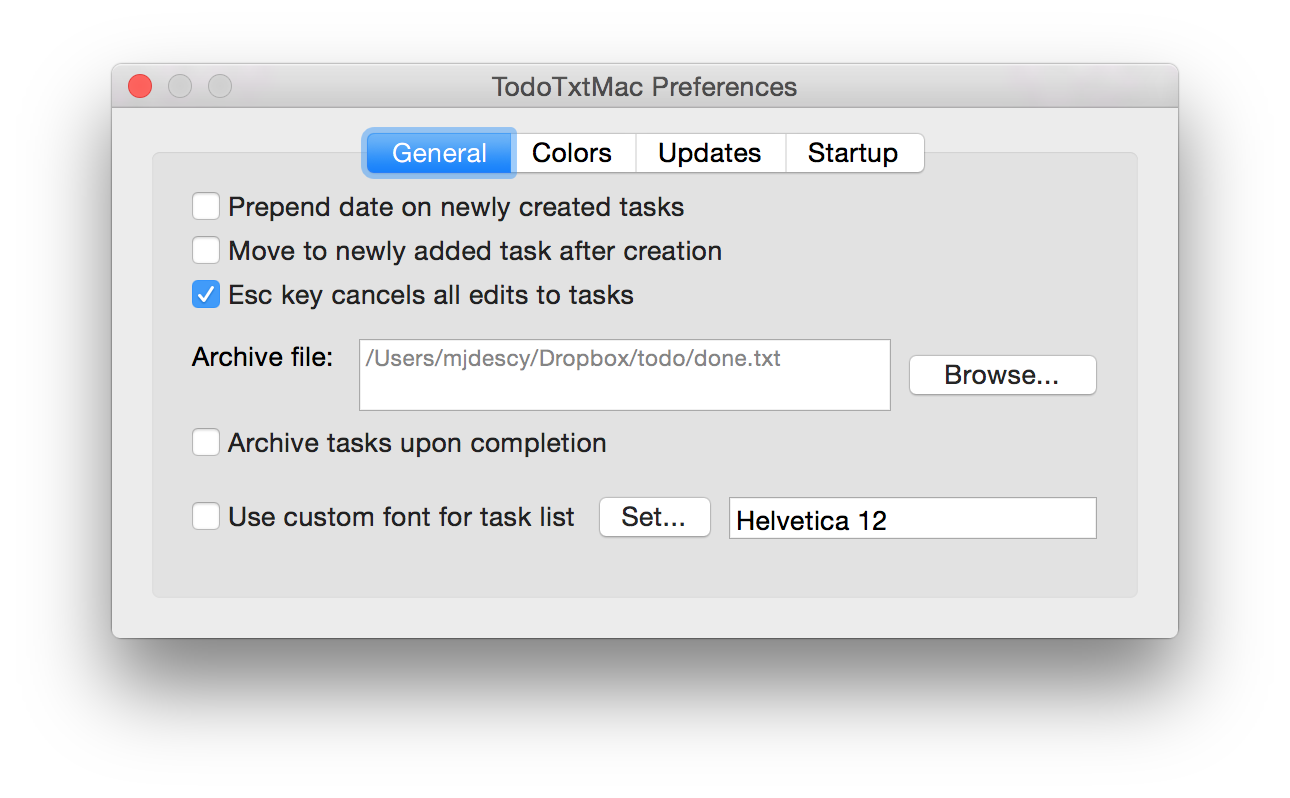
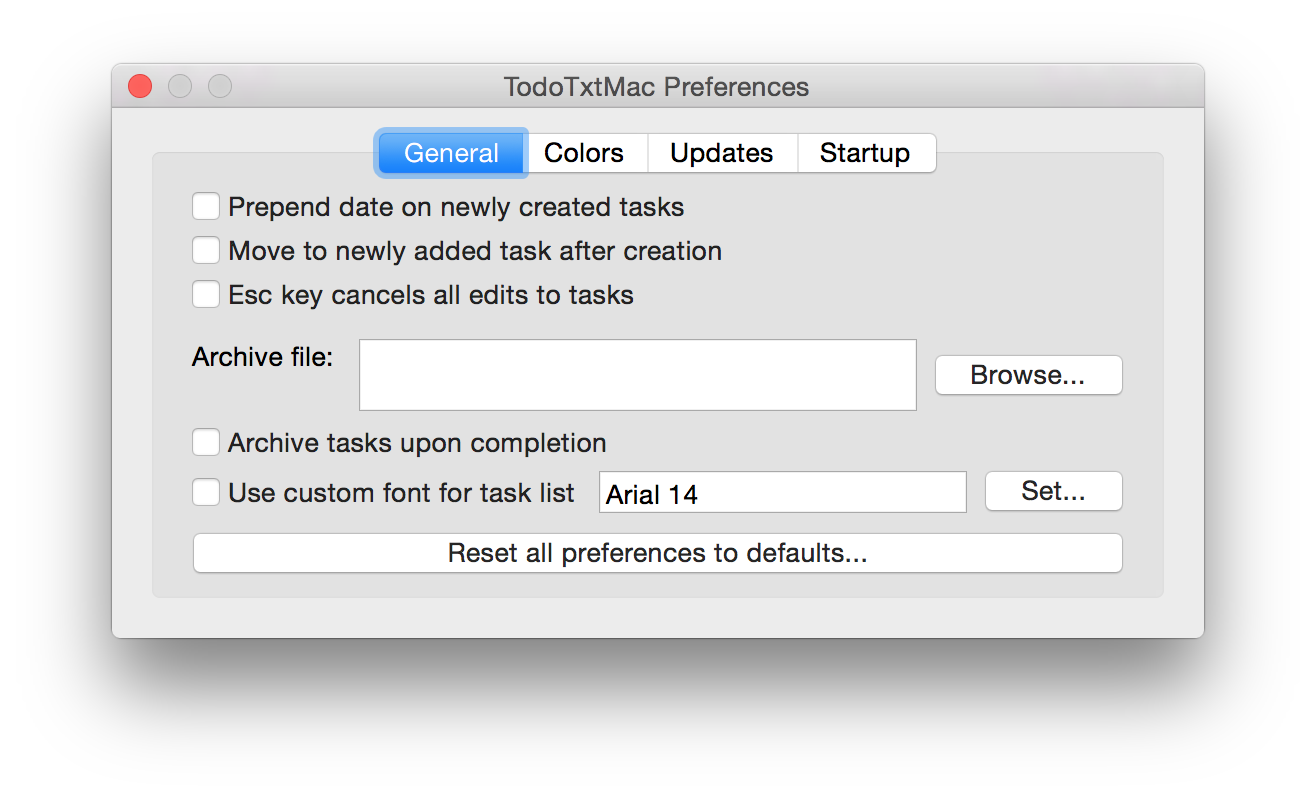
Version 1.3.0 release.

diff --git a/index.html b/index.html
@@ -129,17 +129,18 @@ TodoTxtMac is a minimalist, keyboard-driven to-do manager for Mac OS X that conf
 <a name="working-with-tasks" class="anchor" href="#working-with-tasks"><span class="octicon octicon-link"></span></a>Working with tasks</h2>
 
 <ul>
-<li>n: new task</li>
-<li>j: move down to next task</li>
-<li>k: move up to previous task</li>
-<li>x: toggle task completion</li>
-<li>d or Backspace: delete task (with confirmation)</li>
-<li>u or Enter: update task</li>
-<li>p: postpone task by X (user-entered) days</li>
-<li>s: set due date</li>
-<li>i: set priority to user-entered value (A-Z)</li>
-<li>t: append text to end of selected tasks</li>
-<li>a: archive completed tasks (archive file done.txt must be set)</li>
+<li>N: new task</li>
+<li>J: move down to next task</li>
+<li>K: move up to previous task</li>
+<li>X: toggle task completion</li>
+<li>D or Backspace: delete task (with confirmation)</li>
+<li>U or Enter: update task</li>
+<li>P: postpone task by X (user-entered) days</li>
+<li>S: set due date</li>
+<li>I: set priority to user-entered value (A-Z)</li>
+<li>T: append text to end of selected tasks</li>
+<li>Option+T: prepend text to beginning of selected tasks (after priority and creation date)</li>
+<li>A: archive completed tasks (archive file done.txt must be set)</li>
 <li>Command+Up: Increase priority</li>
 <li>Command+Down: Decrease priority</li>
 <li>Command+Left or Command+Right: Remove priority</li>
@@ -177,7 +178,7 @@ TodoTxtMac is a minimalist, keyboard-driven to-do manager for Mac OS X that conf
 
 <ul>
 <li>Command+F: find (moves focus to the search field)</li>
-<li>f: define quick filters</li>
+<li>F: define quick filters</li>
 <li>1: apply quick filter 1</li>
 <li>2: apply quick filter 2</li>
 <li>3: apply quick filter 3</li>

diff --git a/release-notes/release-notes-v1.3.0.html b/release-notes/release-notes-v1.3.0.html
@@ -1,0 +1,22 @@
+<!DOCTYPE html>
+<html class="no-js">
+    <head>
+        <meta charset="utf-8">
+        <title>TodoTxtMac | Release Notes - v1.3.0</title>
+        <meta name="description" content="TodoTxtMac release notes">
+        <meta name="viewport" content="width=device-width, initial-scale=1">
+    </head>
+    <body>
+        <h1>Version 1.3.0</h1>
+        <h2>Enhancements</h2>
+        <ul>
+            <li>Threshold date support ("t:yyyy-mm-dd")</li>
+            <li>Prepend text to existing tasks (Option+T)</li>
+            <li>Fresh, new icon submitted by Sam Daitzman</li>
+            <li>Highlight colors for arbitrary tags ("key:value" pairs within task text)</li>
+            <li>Reset user preferences to defaults button in Preferences window</li>
+            <li>Clear all filters button in Filter window (use this if you experience problems loading/displaying files after upgrading)</li>
+            <li>Various minor enhancements</li>
+        </ul>
+    </body>
+</html>
